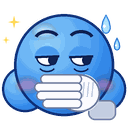
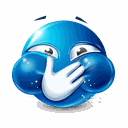
CISO DETECTED: the popup shows KakarottoCake's own picture (he made it), at 128x128 with a 255-colour palette and transparency, in place of the one drawn by tools/make_ciso_face.py, which is removed (Wii build clean; ci_rules passes)

diff --git a/wii/menu/rift_menu.cpp b/wii/menu/rift_menu.cpp
@@ -3345,7 +3345,7 @@ static void SuggestDotClean()
 	}
 }
 
-// The picture of the CISO popup (tools/make_ciso_face.py, embedded from
+// The picture of the CISO popup (drawn by KakarottoCake, embedded from
 // wii/assets) as a texture in `tex`, which the caller frees. False, and
 // the popup goes without it, when it can't be decoded.
 static bool LoadCisoFace(skin::Tex& tex)

diff --git a/docs/MAP.md b/docs/MAP.md
@@ -98,7 +98,7 @@ The build compiles every folder into one, so no two files share a name.
 | `lang/*.po` | The translations, written by `tools/lang_source.py` |
 | `font/` | The menu font's source (`rounded.ttf`, OFL) |
 | `font/` | The cut-down menu font (`tools/make_menu_font.py`), packed by the build |
-| `assets/` | Small pictures the build embeds in the DOL: `ciso_face.png`, the CISO popup's face (`tools/make_ciso_face.py`) |
+| `assets/` | Small pictures the build embeds in the DOL: `ciso_face.png`, the CISO popup's face (drawn by KakarottoCake) |
 
 ### `wii/core/`: logging, settings, text files, memory limits, restarting, the crash screen, translations
 
@@ -346,7 +346,6 @@ card's at the Wii's own MEM1 and MEM2 addresses).
 | --- | --- |
 | `lang_source.py` | The translation table: writes `wii/lang/*.po` and checks every string still appears in the code |
 | `make_menu_font.py`, `make_sounds.py` | Build-time assets |
-| `make_ciso_face.py` | Draws `wii/assets/ciso_face.png`, the face on Home's "CISO DETECTED" popup (Pillow) |
 | `make_sjis_table.py` | The Shift-JIS table for Japanese memory cards' text (`src/fs/sjis_table.inc`) |
 | `make_channel.py`, `make_channel_art.py`, `preview_channel.py` | The Wii Menu channel's WAD and art |
 | `rtreloc.py` | Relocations for the RVZ runtime blob |
